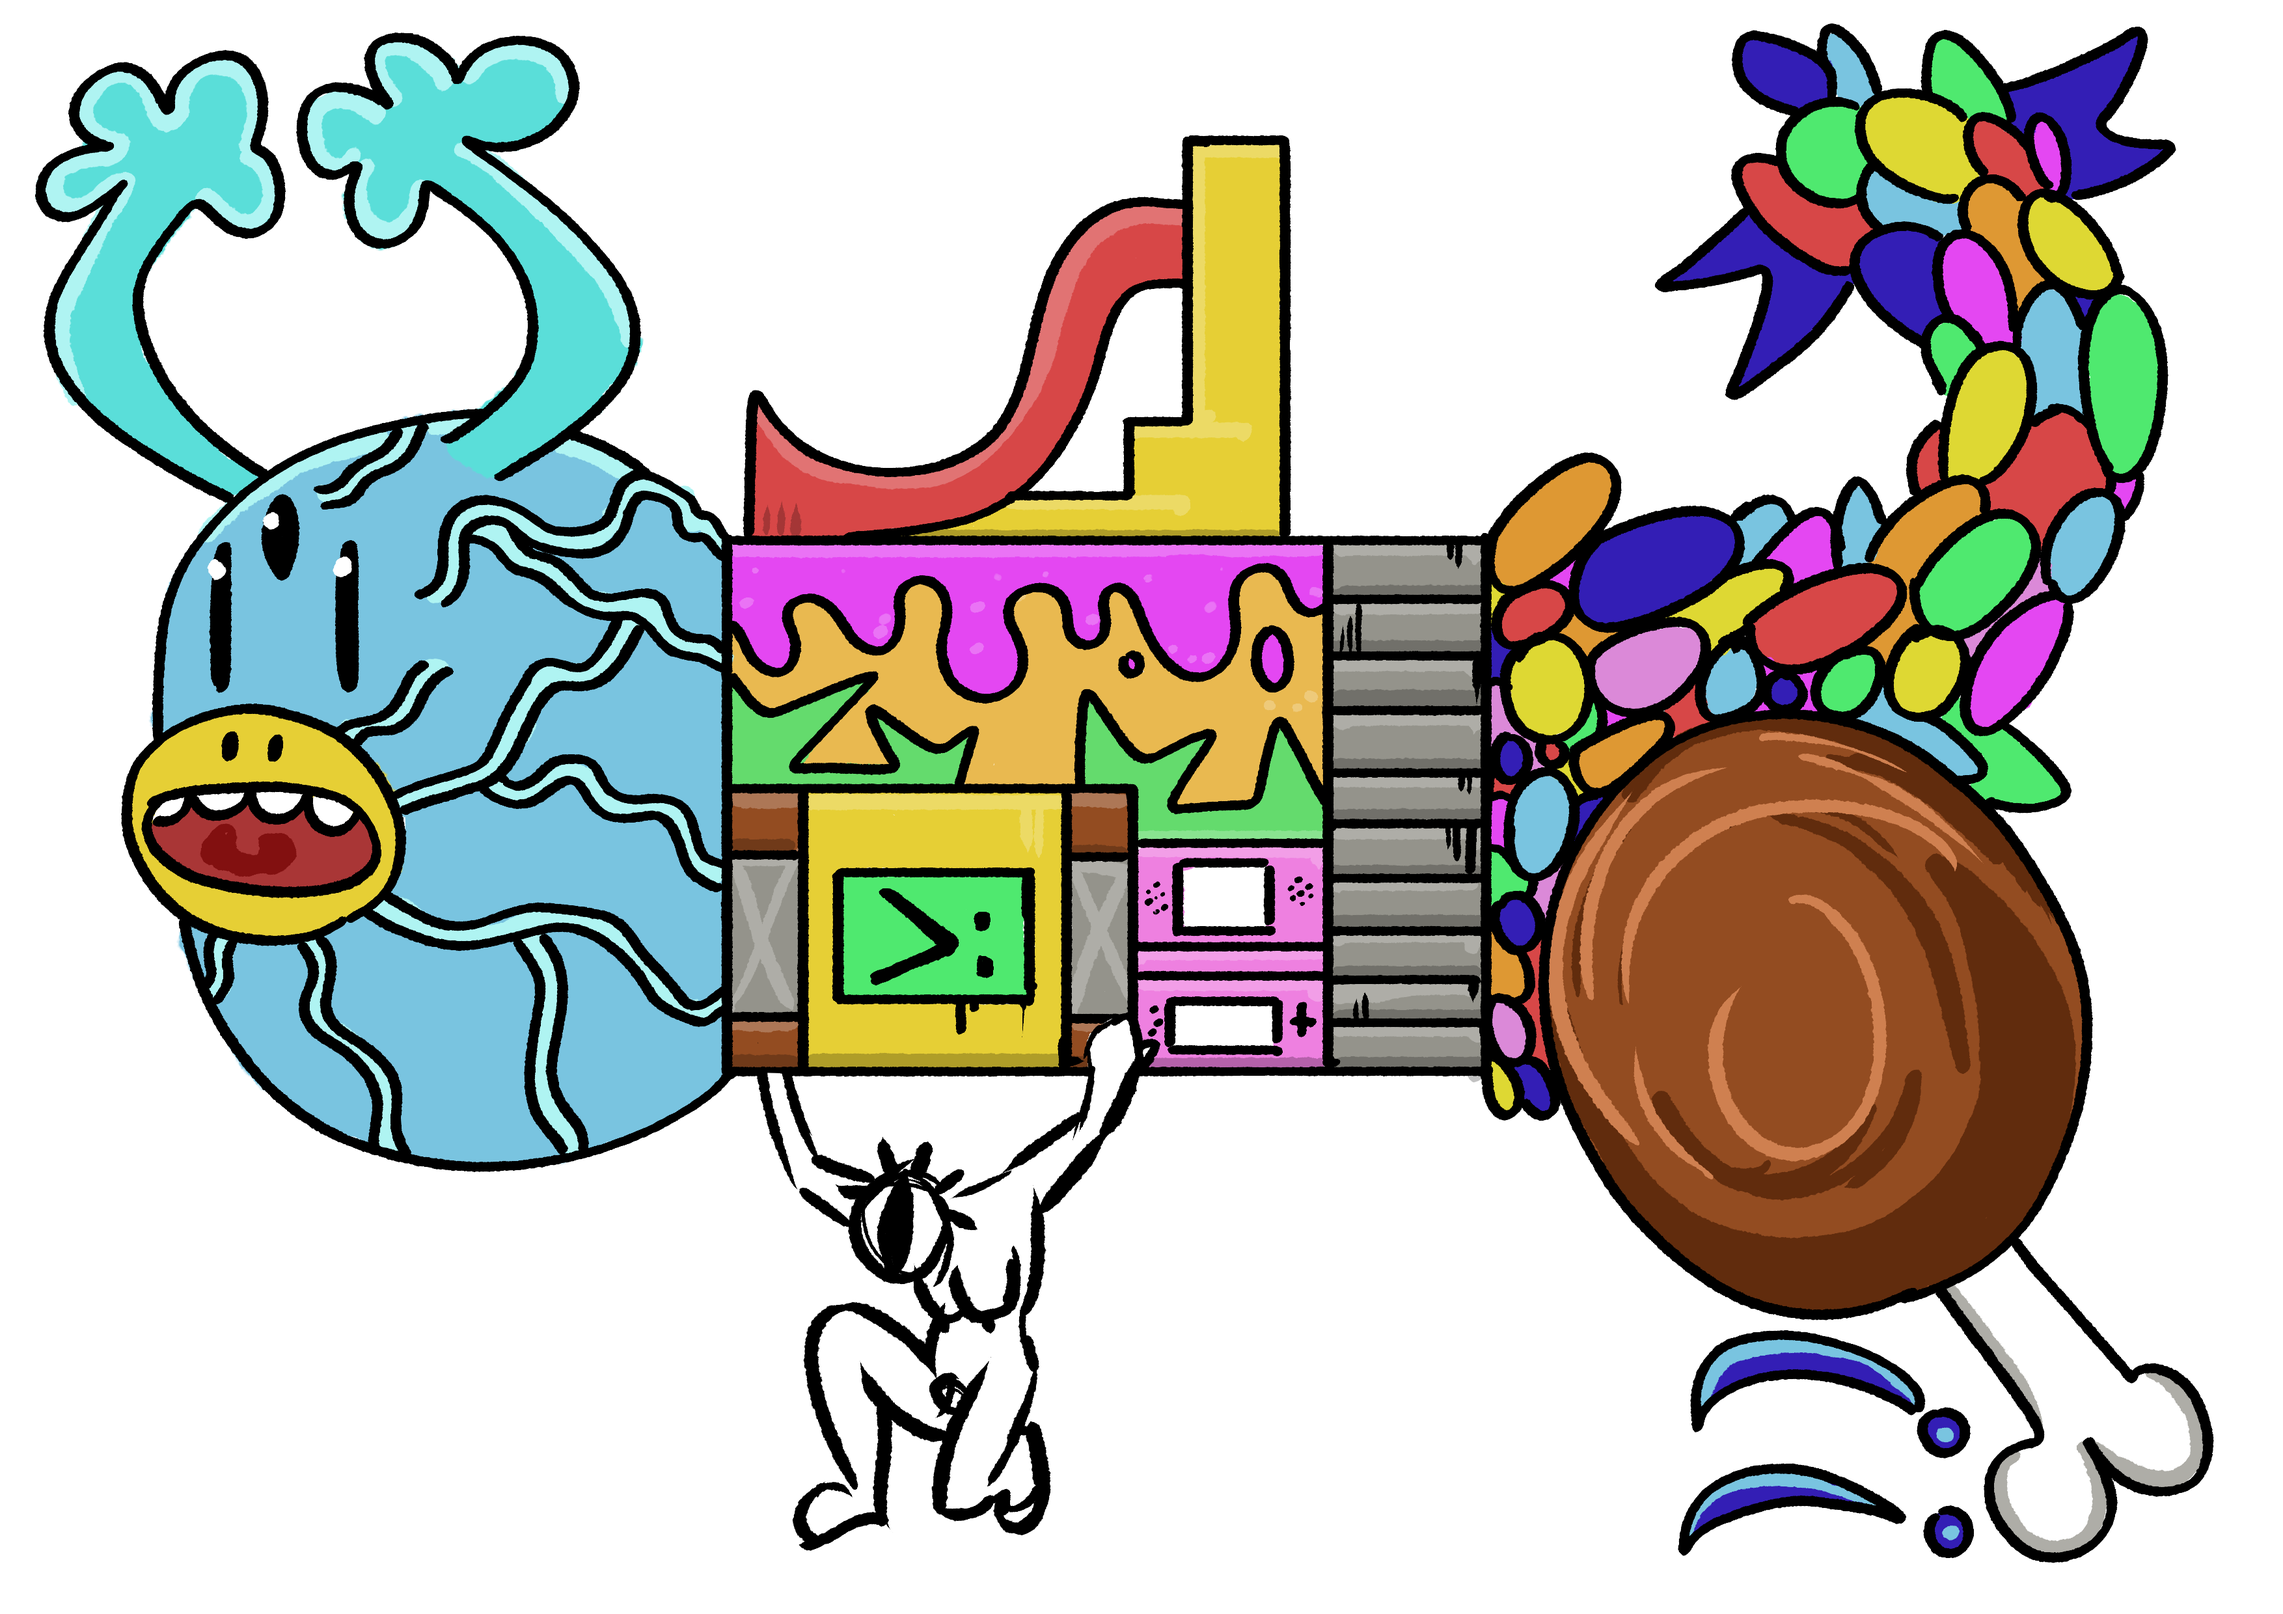
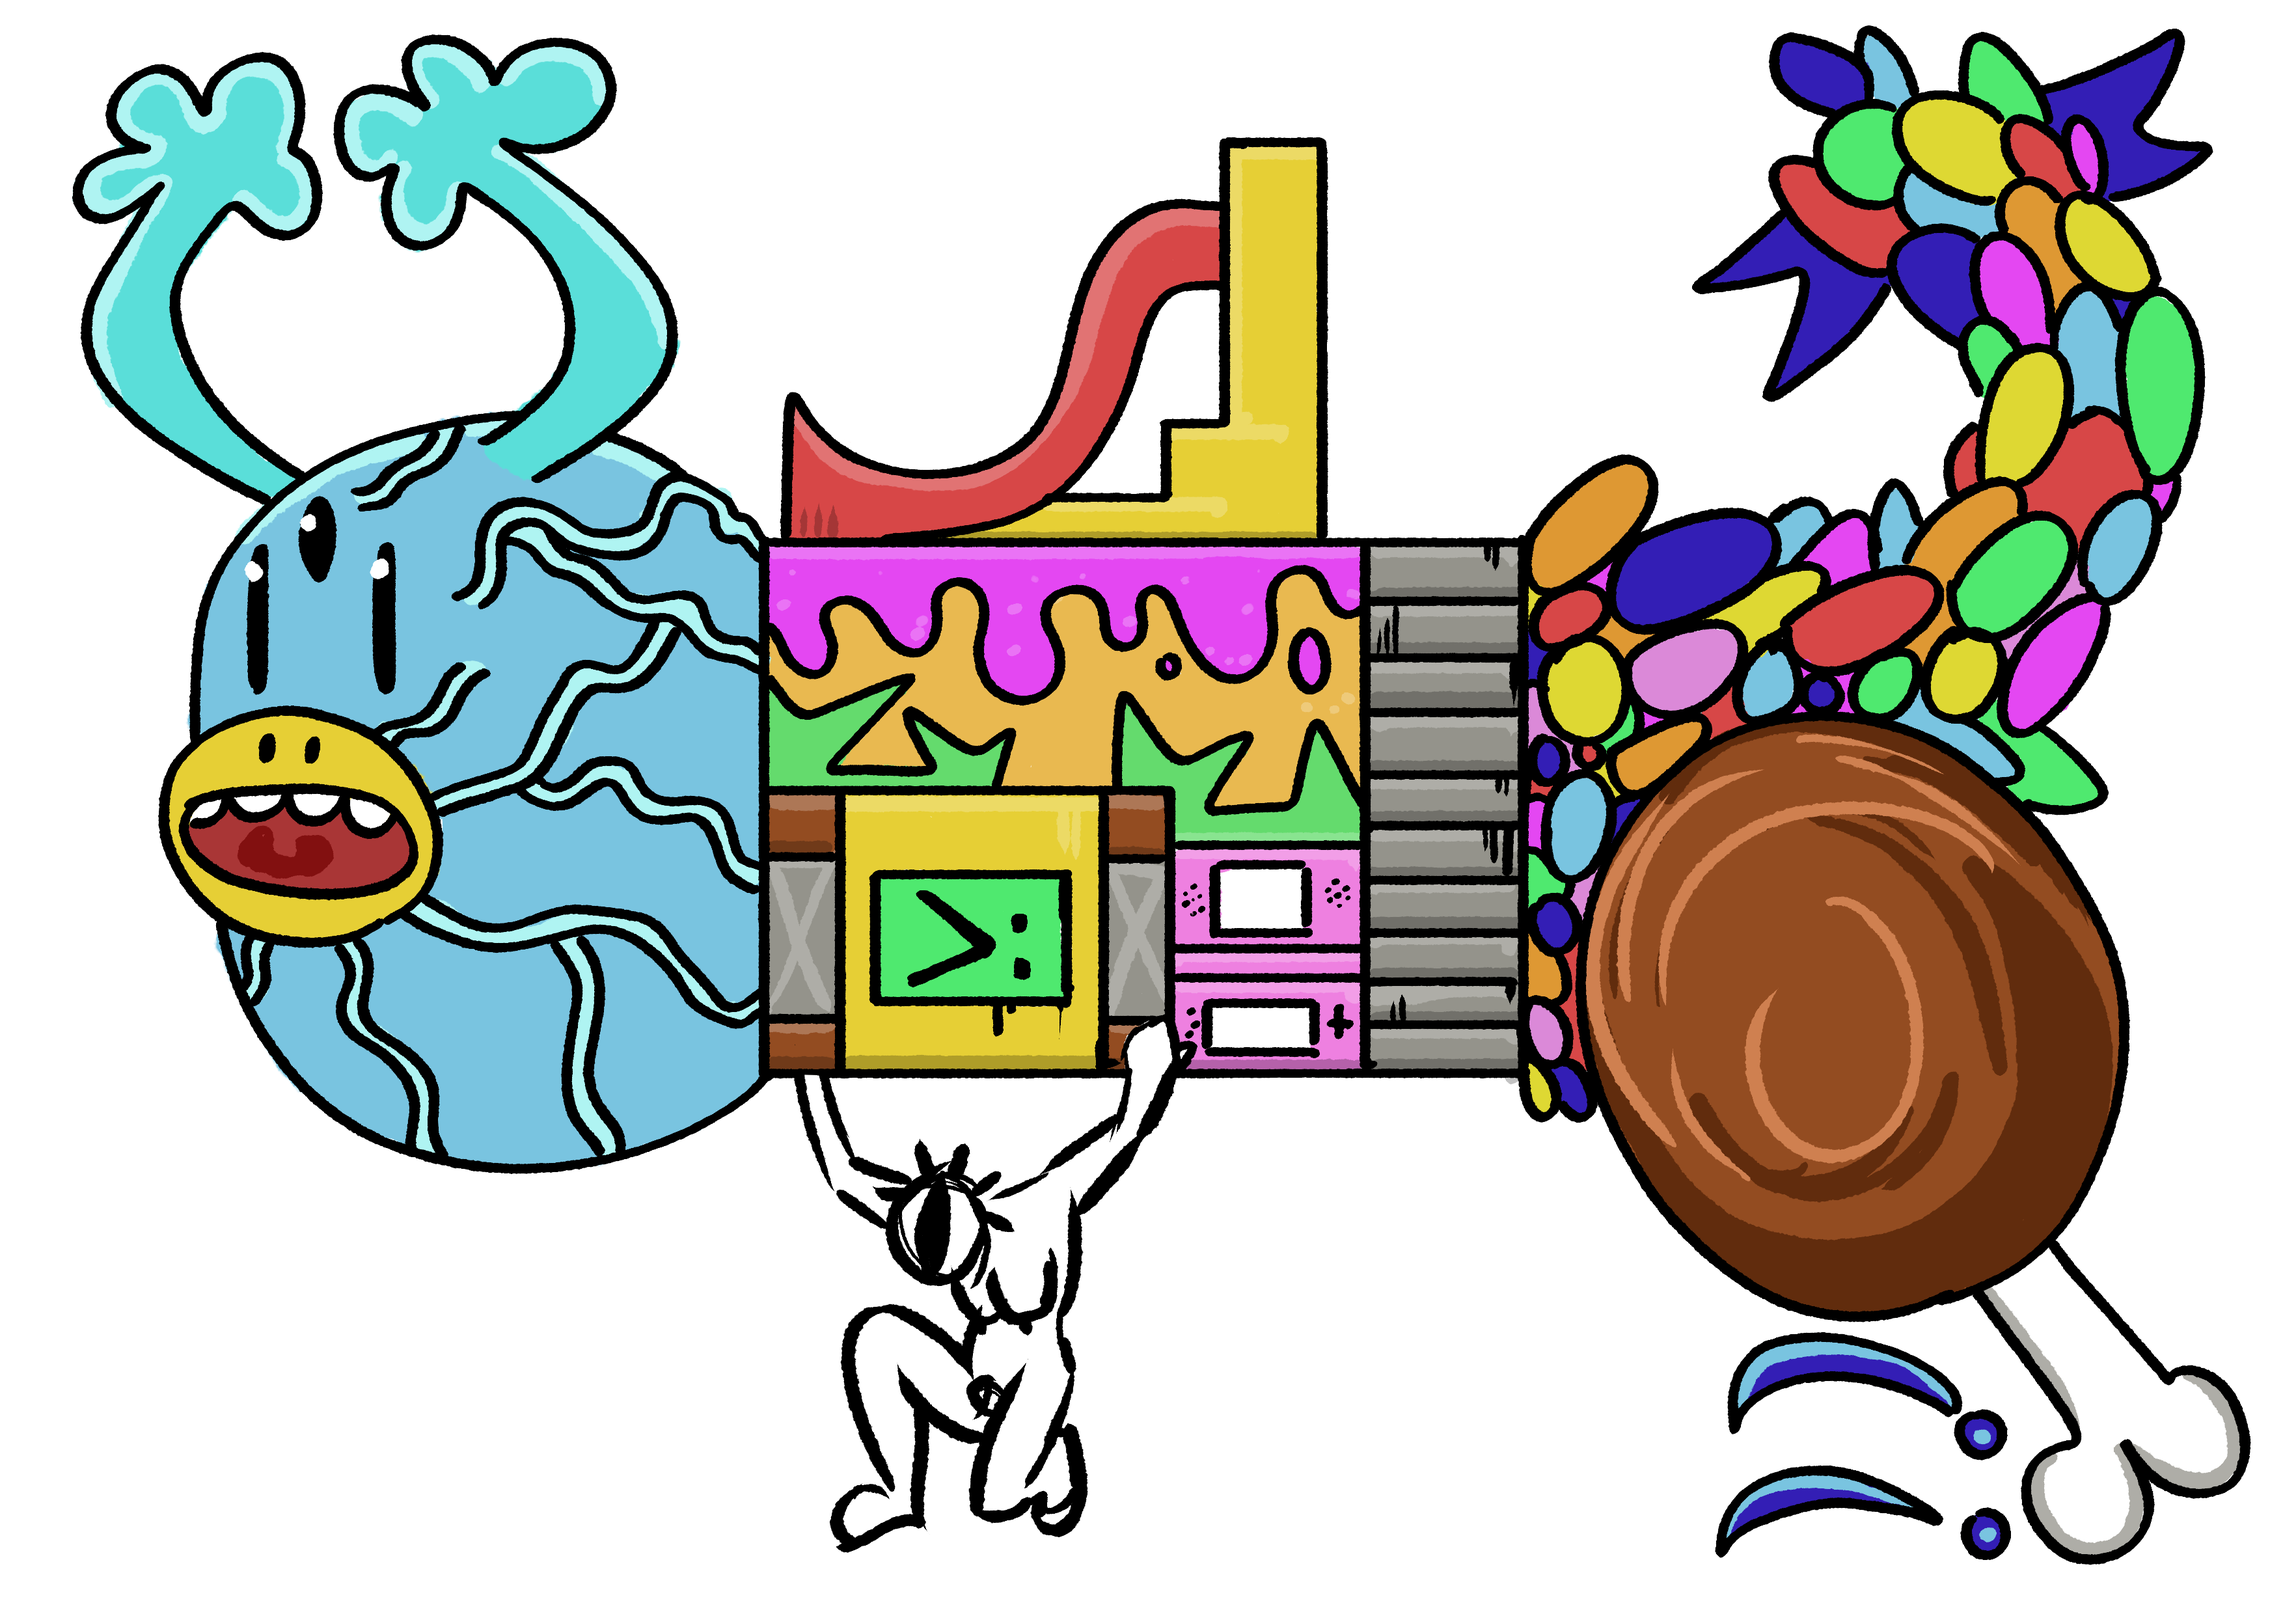
new monster

diff --git a/script.js b/script.js
@@ -10,7 +10,7 @@ const downloadBtn = document.querySelector(".button_container .telechargerBtn");
 
 
 function randomId () {
-    id = Math.floor(Math.random() * 5);
+    id = Math.floor(Math.random() * 6);
     console.log(id);
 }
 
